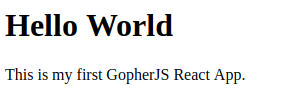
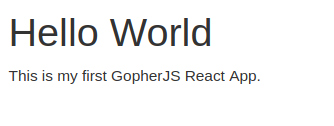
Make myitcv.io/react blog post Bootstrap-based

Changed region(s): [[0.0, 0.5455, 0.8763, 0.7636], [0.0, 0.1091, 0.6502, 0.3818]]

diff --git a/_posts/2017-04-16-myitcv.io_react---gopherjs-bindings-for-react.md b/_posts/2017-04-16-myitcv.io_react---gopherjs-bindings-for-react.md
@@ -73,8 +73,8 @@ At this point you should be able to run `reactGen -help` to check it outputs som
 
 ```
 Usage:
-        ./reactGen [-init <template>]
-        ./reactGen [-gglog <log_level>] [-licenseFile <filepath>] [-core]
+        reactGen [-init <template>]
+        reactGen [-gglog <log_level>] [-licenseFile <filepath>] [-core]
 
   -core
         indicates we are generating for a core component (only do props expansion)
@@ -85,8 +85,9 @@ Usage:
   -licenseFile string
         file that contains a license header to be inserted at the top of each generated file
 
-The flag -init only understands a single value for now: minimal. This is a minimal
-Gopher React application.
+The flag -init is very basic and only understands two value for now: minimal or
+bootstrap. Both give you a minimal Gopher React application, the latter applies
+a basic Bootstrap (http://getbootstrap.com/) template.
 
 ...
 ```
@@ -95,7 +96,7 @@ Let's now create a template GopherJS web app:
 
 ```bash
 # our current directory is $GOPATH/src/example.com/helloworld
-reactGen -init minimal
+reactGen -init bootstrap
 ```
 
 We can now tell GopherJS to serve our web application to see the fruits of our labour:
@@ -111,7 +112,7 @@ resulting web app should look something like this:
 
 The following list roughly summarises the sequence of events:
 
-* `reactGen -init minimal` creates our basic web app: `app.go`, `gen_App_reactGen.go`, `index.html` and `main.go`. This
+* `reactGen -init bootstrap` creates our basic web app: `app.go`, `gen_App_reactGen.go`, `index.html` and `main.go`. This
   is essentially a Go `main` package (with the import path `example.com/helloworld` given the directory in which we
   created it)
 * `main.go` declares the `main()` function; `app.go` declares a basic React component,
